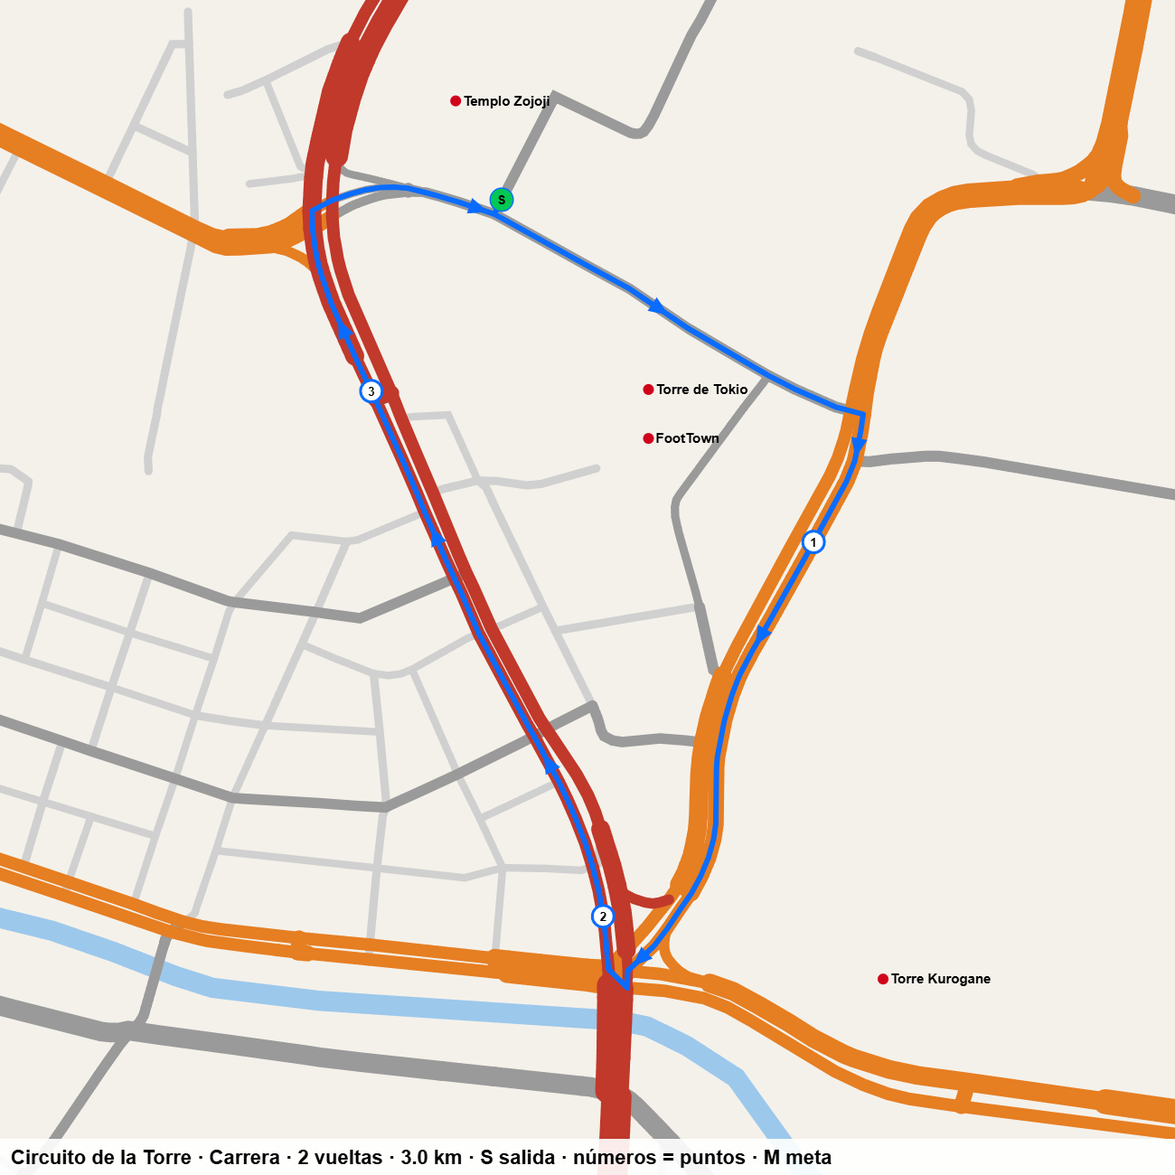
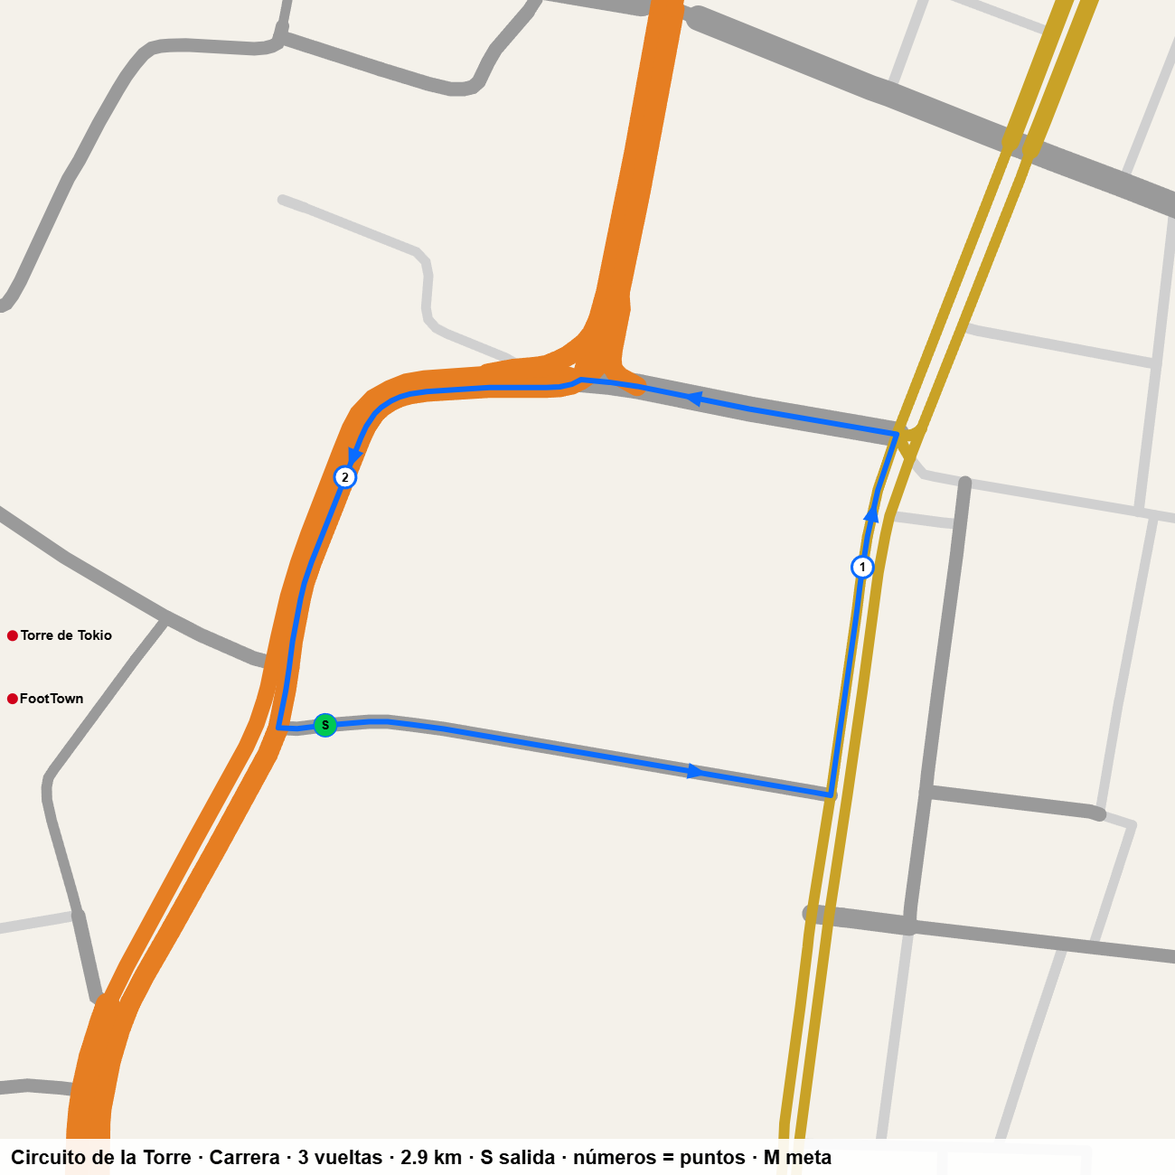
Carreras: Torre rehecha, puntos de control rectos, flechas en todo el recorrido con opcion, fantasma en la salida y flechas LED en los giros

diff --git a/js/race.js b/js/race.js
@@ -4,7 +4,7 @@
 // Recorridos trazados a mano por avenidas: w son puntos de paso seguidos (en coordenadas del plano ×1,5) y entre dos puntos la ruta va por la calle grande que los une.
 // Para cambiar una carrera basta con mover sus puntos (ver los planos en la carpeta planos/)
 const RWP=a=>a.map(([x,z])=>[x*1.5,z*1.5]);
-const RTS=[{id:"torre3",n:"Circuito de la Torre",tipo:"Carrera",laps:2,loop:true,w:RWP([[730,712],[800,765],[893,812],[830,960],[780,1060],[700,880],[652,705]])},
+const RTS=[{id:"torre4",n:"Circuito de la Torre",tipo:"Carrera",laps:3,loop:true,w:RWP([[910,835],[1000,850],[1093,880],[1100,800],[1115,728],[1010,700],[930,712],[893,812]])},
  {id:"canal3",n:"Circuito del Canal",tipo:"Carrera",laps:1,loop:true,w:RWP([[300,975],[600,1050],[780,1065],[1000,1120],[1068,1100],[1100,850],[1115,728],[1010,705],[900,800],[815,1040],[782,1180],[780,1285],[500,1265],[285,1245],[290,1100]])},
  {id:"kuro4",n:"Concesionario → Kurogane",tipo:"Contrarreloj",laps:1,w:RWP([[810,485],[900,545],[1040,575],[1030,640],[1010,700],[930,712],[900,800],[850,930],[815,1040],[880,1095],[935,1115]])},   // (sin giros de más de 110°)
  {id:"beis3",n:"Béisbol → Zona de derrape",tipo:"Contrarreloj",laps:1,w:RWP([[745,555],[652,705],[700,880],[780,1060],[1000,1120],[1068,1100],[1095,880],[1100,840]])},
@@ -32,10 +32,13 @@ function rBuild(R){if(R.pts)return R;const C=rCand(R.w[0][0],R.w[0][1]);let a=nu
  for(let i=1;i<=R.w.length-(R.loop?0:1);i++){const bs=i<R.w.length?rCand(R.w[i][0],R.w[i][1]):new Map([[P[0],0]]),q=rPathC(P[P.length-1],bs,used);if(!q)return null;P=P.concat(q.slice(1))}
  // Sin picos de ir y volver (A→B→A)
  for(let k=0;k<3;k++)for(let i=1;i<P.length-1;i++)if(P[i-1]===P[i+1]){P.splice(i,2);i=Math.max(0,i-2)}
- R.pts=P.map(n=>[n.x,n.z]);const S=[0];for(let i=1;i<R.pts.length;i++)S.push(S[i-1]+Math.hypot(R.pts[i][0]-R.pts[i-1][0],R.pts[i][1]-R.pts[i-1][1]));const D=S[S.length-1],cps=[];
+ // (en los circuitos, también el pico que puede quedar justo en la salida, al cerrar la vuelta)
+ if(R.loop)while(P.length>4&&P[1]===P[P.length-2]){P.shift();P.pop()}
+ R.pts=P.map(n=>[n.x,n.z]);const JN=P.filter(n=>new Set(n.e.map(e=>e[0])).size>=3);const S=[0];for(let i=1;i<R.pts.length;i++)S.push(S[i-1]+Math.hypot(R.pts[i][0]-R.pts[i-1][0],R.pts[i][1]-R.pts[i-1][1]));const D=S[S.length-1],cps=[];
  const at=s=>{s=Math.max(0,Math.min(D,s));let i=1;while(i<S.length-1&&S[i]<s)i++;const f=(s-S[i-1])/((S[i]-S[i-1])||1),[a,b]=R.pts[i-1],[c,d]=R.pts[i];return{x:a+(c-a)*f,z:b+(d-b)*f,i}};
  // Los puntos de control van en un tramo recto (se busca hasta 80 m antes o después) y orientados con la calle, para que los banderines queden de frente
- for(let s=CPD;D-s>=150;s+=CPD){let u=null;for(const o of[0,20,-20,40,-40,60,-60,80,-80]){const a=at(s+o-22),b=at(s+o),c=at(s+o+22);if(Math.abs(ad(Math.atan2(b.x-a.x,b.z-a.z),Math.atan2(c.x-b.x,c.z-b.z)))<.2){u=[a,b,c];break}}if(!u)u=[at(s-22),at(s),at(s+22)];const[a,b,c]=u,l=Math.hypot(c.x-a.x,c.z-a.z)||1;cps.push({x:b.x,z:b.z,dx:(c.x-a.x)/l,dz:(c.z-a.z)/l,i:b.i})}
+ const ok=(s,lim,jd)=>{const a=at(s-lim),b=at(s),c=at(s+lim);return Math.abs(ad(Math.atan2(b.x-a.x,b.z-a.z),Math.atan2(c.x-b.x,c.z-b.z)))<.12&&!JN.some(n=>Math.hypot(n.x-b.x,n.z-b.z)<jd)?[a,b,c]:null};
+ for(let s=CPD;D-s>=150;s+=CPD){let u=null;for(const[lim,jd]of[[40,30],[30,22],[22,14]]){for(let o=0;o<=160&&!u;o+=10)u=ok(s+o,lim,jd)||(o?ok(s-o,lim,jd):null);if(u)break}if(!u)u=[at(s-22),at(s),at(s+22)];const[a,b,c]=u,l=Math.hypot(c.x-a.x,c.z-a.z)||1;cps.push({x:b.x,z:b.z,dx:(c.x-a.x)/l,dz:(c.z-a.z)/l,i:b.i})}
  R.len=D;{const a=at(D-30),b=at(D),l=Math.hypot(b.x-a.x,b.z-a.z)||1;cps.push({x:b.x,z:b.z,dx:(b.x-a.x)/l,dz:(b.z-a.z)/l,end:true,i:R.pts.length-1})}R.cps=cps;R.S=S;R.at=at;R.hw=R.pts.map((p,i)=>{if(!i)return 6.5;const q=R.pts[i-1];return rHW((p[0]+q[0])/2,(p[1]+q[1])/2)+2.5});return R}
 // --- Banderines de los puntos de control: dos a cada lado de la calle, altos y luminosos, se ven desde lejos. El siguiente punto va resaltado y con un haz de luz; la meta, a cuadros ---
 let GTS=[],GTM=null;
@@ -47,13 +50,15 @@ function gateMats(){if(GTM)return GTM;const b=(c,o)=>new THREE.MeshBasicMaterial
  const tx=canvasTex(128,352,g=>{g.fillStyle="#fff";g.fillRect(0,0,128,352);g.fillStyle="#17181f";g.fillRect(0,26,128,134);g.fillStyle="#fff";g.font="bold 54px sans-serif";g.textAlign="center";g.fillText("東",62,84);g.fillText("京",62,144);g.fillStyle="#17181f";for(const y of[182,216,250]){g.beginPath();g.moveTo(26,y);g.lineTo(64,y+24);g.lineTo(102,y);g.lineTo(102,y+14);g.lineTo(64,y+38);g.lineTo(26,y+14);g.closePath();g.fill()}for(let y=306;y<352;y+=16)g.fillRect(0,y,128,8)});
  GTM={fgR:mk(1),fgL:mk(-1),tg:new THREE.ConeGeometry(.24,.6,3).rotateX(PI),ts:new THREE.SphereGeometry(.22,10,8),tb:new THREE.CylinderGeometry(.5,.7,.2,10),next:b(0xffb000,1),far:b(0xff5a2a,.45),fin:new THREE.MeshBasicMaterial({map:chk,side:THREE.DoubleSide,fog:false}),beam,pg:new THREE.CylinderGeometry(.08,.11,7.6,6).translate(0,3.8,0),hl:new THREE.MeshBasicMaterial({color:0xffb000,transparent:true,opacity:.5,fog:false,depthWrite:false,blending:THREE.AdditiveBlending,side:THREE.DoubleSide})};GTM.next.side=GTM.far.side=THREE.DoubleSide;GTM.tn=GTM.next.clone();GTM.tf=GTM.far.clone();GTM.tn.map=GTM.tf.map=tx;return GTM}
 const rHW=(x,z)=>{let m=4;for(const k of gq(x,z).r){const o=k*6;if(segD2(x,z,RSG[o],RSG[o+1],RSG[o+2],RSG[o+3])<(RSG[o+4]+2)**2)m=Math.max(m,RSG[o+4])}return m};
-function gatesClear(){for(const q of GTS)sc.remove(q.G);GTS=[];if(GTM)GTM.beam.visible=false;if(RA)RA.visible=false}
-function gatesBuild(R){gatesClear();const M=gateMats();R.cps.forEach((c,i)=>{const hw=rHW(c.x,c.z)+1.2,G=new THREE.Group(),P=[],F=[],H=[],C=[],add=(g,x,y,z)=>{const m=new THREE.Mesh(g,M.far);m.position.set(x,y,z);G.add(m);P.push(m)};
+function gatesClear(){for(const q of GTS)sc.remove(q.G);GTS=[];for(const g of LEDS)sc.remove(g);LEDS=[];if(GTM)GTM.beam.visible=false;if(RA)RA.visible=false}
+// Dirección de la calle real en un punto (el tramo de calle más cercano), para que los banderines queden siempre de frente
+function rRoad(x,z){let b=null,bd=1e18;for(const k of gq(x,z).r){const o=k*6,d=segD2(x,z,RSG[o],RSG[o+1],RSG[o+2],RSG[o+3]);if(d<bd){bd=d;b=o}}if(b===null)return null;const dx=RSG[b+2]-RSG[b],dz=RSG[b+3]-RSG[b+1],l=Math.hypot(dx,dz)||1;return{dx:dx/l,dz:dz/l}}
+function gatesBuild(R){gatesClear();const M=gateMats();ledBuild(R);R.cps.forEach((c,i)=>{const rr=rRoad(c.x,c.z);if(rr){const s=rr.dx*c.dx+rr.dz*c.dz<0?-1:1;c.dx=rr.dx*s;c.dz=rr.dz*s}const hw=rHW(c.x,c.z)+1.2,G=new THREE.Group(),P=[],F=[],H=[],C=[],add=(g,x,y,z)=>{const m=new THREE.Mesh(g,M.far);m.position.set(x,y,z);G.add(m);P.push(m)};
   for(const s of[-1,1]){const fg=s>0?M.fgR:M.fgL;for(const z of[-3,3]){add(M.pg,s*hw,0,z);add(M.ts,s*hw,7.7,z);add(M.tb,s*hw,.1,z);const B=new THREE.Mesh(fg,c.end?M.fin:M.tf);B.position.set(s*hw,1,z);B.userData.a=0;if(!c.end)C.push(B);F.push(B);G.add(B);const A=new THREE.Mesh(fg,M.hl);A.scale.set(1.3,1.12,1);A.position.set(-.3*s,-.38,-.03);B.add(A);H.push(A)}
    for(let t=1;t<=5;t++)add(M.tg,s*hw,7.45-Math.sin(PI*t/6)*.7,t-3)}   // (guirnalda de banderitas entre los dos mástiles)
   G.position.set(c.x,0,c.z);G.rotation.y=Math.atan2(c.dx,c.dz);G.visible=false;sc.add(G);c.r=Math.max(hw+4,26);GTS.push({G,P,F,H,C})})}   // (radio amplio: en avenidas con dos calzadas también cuenta si vas por la otra)
 // Los banderines ondean un poco y el resplandor del siguiente punto late
-function gatesWave(){const t=performance.now()/1000;GTM.hl.opacity=.42+Math.sin(t*4)*.16;for(const q of GTS)if(q.G.visible)q.F.forEach((B,i)=>B.rotation.y=B.userData.a+Math.sin(t*2.4+i*1.3)*.2)}
+function gatesWave(){const t=performance.now()/1000;ledTick(t);GTM.hl.opacity=.42+Math.sin(t*4)*.16;for(const q of GTS)if(q.G.visible)q.F.forEach((B,i)=>B.rotation.y=B.userData.a+Math.sin(t*2.4+i*1.3)*.2)}
 function rPlace(){const R=RACE.rt,n=R.cps.length,k=RACE.cp%n,tot=n*R.laps;GTS.forEach((q,i)=>{const d=(i-k+n)%n;q.G.visible=d<2&&RACE.cp+d<tot;for(const m of q.P)m.material=d===0?GTM.next:GTM.far;for(const m of q.C)m.material=d===0?GTM.tn:GTM.tf;for(const m of q.H)m.visible=d===0});const c=R.cps[k];GTM.beam.position.set(c.x,0,c.z);GTM.beam.visible=true}
 // ¿Va por la ruta? Se mira el tramo entre el último punto de control y el siguiente (no vale atajar a otra parte del recorrido ni subir a la autopista)
 function rOnRoute(){return!HWL.on&&RF.d<28}
@@ -68,15 +73,37 @@ function rFind(){const R=RACE.rt,N=R.pts.length-1,S=R.S;let bd=1e18;const t=i=>{
 function rBarrier(){if(HWL.on)return;const d=RF.d,lim=RACE.rt.hw[RF.i];if(d<=lim||d>=28)return;const nx=(px-RF.x)/d,nz=(pz-RF.z)/d;px=RF.x+nx*lim;pz=RF.z+nz*lim;const vn=vx*nx+vz*nz;if(vn>0){vx-=vn*nx;vz-=vn*nz;if(vn>3&&performance.now()-crashT>250){crashT=performance.now();thump(vn)}}}
 // Flechas azules pintadas en la calzada, solo antes de cada giro: una fila de 7 que se va torciendo y apartando hacia el lado del giro y acaba antes del cruce
 // (en las rectas no hay). Los giros se buscan al construir la ruta (rTurns)
-const RAN=21;let RA=null;const RAD=new THREE.Object3D();
+const RAS=9,RAN=22;let RA=null;const RAD=new THREE.Object3D();
 function rTurns(R){const D=R.S[R.S.length-1],T=[],hd=(p,q)=>Math.atan2(q.x-p.x,q.z-p.z);let best=null;
  for(let s=8;s<D-8;s+=4){const a=R.at(s-22),b=R.at(s),c=R.at(s+22),d=ad(hd(b,c),hd(a,b));if(Math.abs(d)>.6){if(!best||Math.abs(d)>Math.abs(best.d))best={s,d}}else if(best){T.push(best);best=null}}if(best)T.push(best);R.turns=T}
 function rArrows(){const R=RACE.rt;if(!R.turns)rTurns(R);if(!RA){const s=new THREE.Shape();s.moveTo(0,1.6);s.lineTo(1.35,-1.6);s.lineTo(0,-.6);s.lineTo(-1.35,-1.6);s.closePath();RA=new THREE.InstancedMesh(new THREE.ShapeGeometry(s).rotateX(PI/2),new THREE.MeshBasicMaterial({color:0x2a8cf0,transparent:true,opacity:.92,depthWrite:false,side:THREE.DoubleSide,polygonOffset:true,polygonOffsetFactor:-2,polygonOffsetUnits:-2}),RAN);RA.frustumCulled=false;sc.add(RA)}
- const S=R.S,D=S[S.length-1],n=R.cps.length,q=R.pts[RF.i-1],L=S[RF.i-1]+Math.hypot(RF.x-q[0],RF.z-q[1]),last=!R.loop||(Math.floor(RACE.cp/n)>=R.laps-1&&RACE.cp%n>=2);let c=0;
- for(const t of R.turns){let ds=t.s-L;if(R.loop&&!last&&ds<-30)ds+=D;if(ds<-15||ds>180)continue;const sT=L+ds,ang=Math.max(-1.1,Math.min(1.1,t.d));
-  for(let k=0;k<7&&c<RAN;k++){const s=sT-58+k*8.5;if(s<L+3)continue;const ss=s>=D?s-D:s,a=R.at(ss-4),b=R.at(ss),e=R.at(ss+4),h0=Math.atan2(e.x-a.x,e.z-a.z),f=k/6,off=Math.sign(ang)*1.6*f*f;
-   RAD.position.set(b.x+Math.cos(h0)*off,.06,b.z-Math.sin(h0)*off);RAD.rotation.set(0,h0+ang*.85*f,0);RAD.updateMatrix();RA.setMatrixAt(c++,RAD.matrix)}}
+ if(ENV.rcArr===0){RA.visible=false;return}
+ const S=R.S,D=S[S.length-1],n=R.cps.length,q=R.pts[RF.i-1],L=S[RF.i-1]+Math.hypot(RF.x-q[0],RF.z-q[1]),last=!R.loop||(Math.floor(RACE.cp/n)>=R.laps-1&&RACE.cp%n>=2),s0=(Math.floor(L/RAS)+1)*RAS;let c=0;
+ for(let k=0;k<RAN;k++){let s=s0+k*RAS;if(s>=D){if(last)break;s-=D}let ang=0,f=0,skip=false;for(const t of R.turns){const ds=t.s-s;if(Math.abs(ds)<10){skip=true;break}if(ds>0&&ds<60){ang=Math.max(-1.1,Math.min(1.1,t.d));f=1-ds/60;break}}if(skip)continue;
+  const a=R.at(s-4),b=R.at(s),e=R.at(s+4),h0=Math.atan2(e.x-a.x,e.z-a.z),off=Math.sign(ang)*1.6*f*f;RAD.position.set(b.x+Math.cos(h0)*off,.06,b.z-Math.sin(h0)*off);RAD.rotation.set(0,h0+ang*.85*f,0);RAD.updateMatrix();RA.setMatrixAt(c++,RAD.matrix)}
  RA.count=c;RA.instanceMatrix.needsUpdate=true;RA.visible=c>0}
+// --- Flechas LED de los giros (solo en carrera): A, panel de chevrones ámbar sobre postes donde hay sitio, con la ola de luces que empieza en el lado
+// contrario al giro; C, flecha de neón cian pegada a la pared del edificio que queda de frente cuando no cabe el panel (calles estrechas) ---
+let LEDS=[],LEDT=null;
+function ledTex(){if(LEDT)return LEDT;const mk=(dir)=>{const cv=document.createElement("canvas");cv.width=256;cv.height=80;const t=new THREE.CanvasTexture(cv);t.dir=dir;return t};
+ const neon=(dir)=>canvasTex(256,110,g=>{g.clearRect(0,0,256,110);g.fillStyle="rgba(6,8,12,.85)";g.fillRect(4,4,248,102);g.save();if(dir<0){g.translate(256,0);g.scale(-1,1)}g.strokeStyle="#2ee6ff";g.lineJoin="round";g.shadowColor="#2ee6ff";
+  for(const[w,b]of[[16,18],[6,0]]){g.lineWidth=w;g.shadowBlur=b;g.globalAlpha=w>10?.35:1;g.beginPath();g.moveTo(30,42);g.lineTo(150,42);g.lineTo(150,20);g.lineTo(225,55);g.lineTo(150,90);g.lineTo(150,68);g.lineTo(30,68);g.closePath();g.stroke()}g.restore()});
+ LEDT={a:{"1":mk(1),"-1":mk(-1)},c:{"1":neon(1),"-1":neon(-1)},f:-1};ledDraw(0);return LEDT}
+// Panel A: 3 chevrones de puntos; se enciende uno cada vez, del lado contrario al giro hacia donde apunta
+function ledDraw(fr){for(const dir of[1,-1]){const t=LEDT.a[dir],g=t.image.getContext("2d");g.fillStyle="#0b0b0f";g.fillRect(0,0,256,80);const lit=dir>0?fr:2-fr;
+  for(let k=0;k<3;k++)for(let y=0;y<7;y++)for(let x=0;x<8;x++){const cy=Math.abs(y-3),xx=dir>0?x:7-x,on=xx-cy>=1&&xx-cy<=3;if(!on)continue;const L=k===lit;g.fillStyle=L?"#ffb000":"#3a2608";g.shadowColor="#ffb000";g.shadowBlur=L?8:0;g.beginPath();g.arc(16+k*84+x*8.4,13+y*9,3.4,0,7);g.fill()}t.needsUpdate=true}}
+function ledTick(t){if(!LEDS.length||!LEDT)return;const fr=Math.floor(t*6)%3;if(fr!==LEDT.f){LEDT.f=fr;ledDraw(fr)}for(const m of[LEDT.cm,LEDT.cm2])if(m)m.opacity=.75+Math.sin(t*5)*.25}
+function ledBuild(R){if(!R.turns)rTurns(R);const T2=ledTex(),post=new THREE.MeshLambertMaterial({color:0x2a2c30}),pg=new THREE.CylinderGeometry(.08,.1,3.2,6).translate(0,1.6,0),bk=new THREE.MeshLambertMaterial({color:0x111216});
+ if(!T2.cm)T2.cm=new THREE.MeshBasicMaterial({map:T2.c["1"],transparent:true,depthWrite:false});
+ for(const t of R.turns){if(Math.abs(t.d)<.75)continue;const a=R.at(t.s-30),b=R.at(t.s),h=Math.atan2(b.x-a.x,b.z-a.z),fx=Math.sin(h),fz=Math.cos(h),hw=rHW(b.x,b.z),dir=t.d>0?-1:1;
+  // Sitio para el panel A: en la esquina de fuera del giro, pasado el cruce, fuera de la calzada y sin edificio encima
+  const ox=t.d>0?-Math.cos(h):Math.cos(h),oz=t.d>0?Math.sin(h):-Math.sin(h),G=new THREE.Group(),free=(x,z)=>roadAt(x,z)<0&&!inBuilding(x,z)&&!inBuilding(x+fz*2.7,z-fx*2.7)&&!inBuilding(x-fz*2.7,z+fx*2.7);let A=null;
+  for(const fw of[hw+3,hw+6,hw+10,hw+14])for(const sd of[0,hw*.5+2,hw+3]){const x=b.x+fx*fw+ox*sd,z=b.z+fz*fw+oz*sd;if(!A&&free(x,z))A=[x,z]}
+  let W=null;if(!A)for(const sd of[0,hw*.6,-hw*.6]){for(let d=hw+1;d<=45;d+=1){const x=b.x+fx*d+ox*sd,z=b.z+fz*d+oz*sd;if(inBuilding(x,z)){if(!W||d<W[2])W=[x-fx*.4,z-fz*.4,d];break}}}
+  if(A){for(const s of[-2,2]){const p=new THREE.Mesh(pg,post);p.position.set(s,0,0);G.add(p)}const back=new THREE.Mesh(new THREE.BoxGeometry(5.2,1.8,.14),bk);back.position.set(0,3.6,-.09);G.add(back);
+   const pn=new THREE.Mesh(new THREE.PlaneGeometry(5,1.56),new THREE.MeshBasicMaterial({map:T2.a[dir]}));pn.position.set(0,3.6,0);G.add(pn);G.position.set(A[0],0,A[1])}
+  else if(W){const m=dir>0?T2.cm:(T2.cm2||(T2.cm2=T2.cm.clone()));m.map=T2.c[dir];const pn=new THREE.Mesh(new THREE.PlaneGeometry(4.2,1.8),m);pn.position.set(0,5,0);G.add(pn);G.position.set(W[0],0,W[1])}
+  else continue;G.rotation.y=h+PI;sc.add(G);LEDS.push(G)}}
 // Fuera de la ruta o tras saltarse un arco: al acabarse los 5 s, vuelve al último punto por el que pasó (el tiempo sigue corriendo)
 function rBack(){const R=RACE.rt,n=R.cps.length,k=RACE.cp%n,q=R.cps[k];let x=RACE.sx,z=RACE.sz,hd=RACE.sh;if(RACE.cp>0){const o=R.cps[(RACE.cp-1)%n];x=o.x;z=o.z;hd=Math.atan2(o.dx,o.dz)}RACE.pi=RACE.cp>0?R.cps[(RACE.cp-1)%n].i:0;spawnAt({x,z,h:hd});RACE.off=null;RACE.safe=1.5}
 function raceQuit(){raceAbort();if(state==="set")closeSettings();rQuitMp()}
@@ -92,12 +119,13 @@ function ghostToggle(){RACE.gOn=!RACE.gOn;if(GHC&&!RACE.gOn)GHC.visible=false;if
 function rHud(){const R=RACE.rt,n=R.cps.length,tot=n*R.laps,lap=Math.min(R.laps,Math.floor(RACE.cp/n)+1);$("rcCp").textContent=`${T("Punto")} ${Math.min(RACE.cp,tot)}/${tot}`+(R.laps>1?` · ${T("Vuelta")} ${lap}/${R.laps}`:"");$("rcGh").textContent=RACE.ghost?(RACE.gOn?"👻 ✓":"👻 ✕"):""}
 // Pantalla antes de salir: tráfico de la carrera y fantasma. Recuerda lo último elegido y se puede desactivar (ENV.rcSkip); el tráfico vuelve al de antes al acabar
 if(ENV.rcT===undefined)ENV.rcT=2;
-function raceSetup(R,gi){if(ENV.rcSkip){raceStart(R,gi);return}const P=$("raceP"),runs=(rStore()[R.id]||{runs:[]}).runs;P.innerHTML="";const h1=document.createElement("h1");h1.textContent=T(R.n);P.appendChild(h1);
+function raceSetup(R,gi){const P=$("raceP"),runs=(rStore()[R.id]||{runs:[]}).runs;P.innerHTML="";const h1=document.createElement("h1");h1.textContent=T(R.n);P.appendChild(h1);
  const r=document.createElement("div");r.className="opt";r.innerHTML=`<span>${T("Tráfico")}</span>`;NLAB.forEach((t,i)=>{const b=document.createElement("button");b.textContent=T(t);b.className=ENV.rcT===i?"on":"";b.onclick=()=>{ENV.rcT=i;saveEnv();for(const x of r.querySelectorAll("button"))x.className="";b.className="on"};r.appendChild(b)});P.appendChild(r);
  // Estación del año solo para la carrera (al acabar vuelve la de antes)
  {if(ENV.rcS===undefined)ENV.rcS="keep";const s=document.createElement("div");s.className="opt";s.style.marginTop="10px";s.innerHTML=`<span>${T("Estación")}</span>`;[["keep","La de ahora"],[0,"Primavera"],[1,"Verano"],[2,"Otoño"],[3,"Invierno"]].forEach(([v,t])=>{const b=document.createElement("button");b.textContent=T(t);b.className=String(ENV.rcS)===String(v)?"on":"";b.onclick=()=>{ENV.rcS=v;saveEnv();for(const x of s.querySelectorAll("button"))x.className="";b.className="on"};s.appendChild(b)});P.appendChild(s)}
  const q=document.createElement("div");q.className="opt";q.style.marginTop="10px";q.innerHTML=`<span>${T("Fantasma")}</span>`;const sel=rGhostSel(runs);sel.value=gi;q.appendChild(sel);P.appendChild(q);
- const lb=document.createElement("label");lb.className="rcChk";lb.innerHTML=`<input type="checkbox"> ${T("No volver a mostrar esta pantalla")}`;const ck=lb.firstChild;ck.onchange=()=>{ENV.rcSkip=ck.checked;saveEnv()};P.appendChild(lb);
+ // Flechas azules en la calzada: sí o no
+ {if(ENV.rcArr===undefined)ENV.rcArr=1;const s=document.createElement("div");s.className="opt";s.style.marginTop="10px";s.innerHTML=`<span>${T("Flechas")}</span>`;[[1,"Sí"],[0,"No"]].forEach(([v,tx])=>{const b=document.createElement("button");b.textContent=T(tx);b.className=ENV.rcArr===v?"on":"";b.onclick=()=>{ENV.rcArr=v;saveEnv();for(const x of s.querySelectorAll("button"))x.className="";b.className="on"};s.appendChild(b)});P.appendChild(s)}
  const w=document.createElement("div"),s=document.createElement("button");s.className="b";s.textContent=T("Empezar");s.onclick=()=>raceStart(R,+sel.value);const c=document.createElement("button");c.className="b g";c.textContent=T("Volver");c.onclick=raceMenu;w.append(s,c);P.appendChild(w)}
 function rGhostSel(runs){const sel=document.createElement("select");sel.title=T("Coche fantasma");const o0=document.createElement("option");o0.value=-1;o0.textContent="👻 "+T("Sin fantasma");sel.appendChild(o0);runs.forEach((r,i)=>{const o=document.createElement("option");o.value=i;o.textContent=`👻 ${fmtT(r.t)} · ${r.c}`;sel.appendChild(o)});sel.value=runs.length?0:-1;return sel}
 function raceStart(R,gi,slot){if(!rBuild(R))return;if(RACE.prevT===undefined||RACE.prevT===null)RACE.prevT=npcLvl;setNpc(ENV.rcT);if(ENV.rcS!==undefined&&ENV.rcS!=="keep"&&(RACE.prevS===undefined||RACE.prevS===null)){RACE.prevS=ENV.season===undefined?"auto":ENV.season;ENV.season=+ENV.rcS;seasonApply(+ENV.rcS)}if(state==="race")$("raceP").hidden=true;let a,b,hd;
@@ -142,11 +170,10 @@ function raceMenu(){state="race";$("ov").hidden=false;$("carsP").hidden=$("mapP"
  const mp=ONL.ch&&ONL.ok&&ONL.host;if(mp){const p=document.createElement("p");p.textContent=T("Sala: al pulsar Correr salís todos a la vez.");P.appendChild(p)}
  // Cada carrera es un banner con la vista aérea de su recorrido (se dibuja la primera vez que se abre el menú)
  for(const R of RTS){rBuild(R);const e=S[R.id],runs=e&&e.runs||[],d=document.createElement("div");d.className="rcB";if(R.img)d.style.backgroundImage=`url(${R.img})`;else setTimeout(()=>{raceShot(R);if(R.img)d.style.backgroundImage=`url(${R.img})`},60);
-  const inf=document.createElement("div");inf.className="inf";inf.innerHTML=`<span class="tag${R.loop?"":" c"}">${T(R.tipo)}</span><b>${T(R.n)}</b><small>${R.loop&&R.laps>1?`${R.laps} ${T("vueltas")} · `:""}${(R.len*R.laps/1000).toFixed(1)} km · ${T("Récord")}: ${runs.length?fmtT(runs[0].t):"—"}</small>`;d.appendChild(inf);
-  const sel=rGhostSel(runs);if(mp)sel.hidden=true;d.appendChild(sel);
-  const b=document.createElement("button");b.className="b";b.textContent=T("Correr");b.onclick=()=>mp?onlRaceStart(R):raceSetup(R,+sel.value);d.appendChild(b);P.appendChild(d)}
+  const inf=document.createElement("div");inf.className="inf";inf.innerHTML=`<span class="tag${R.loop?"":" c"}">${T(R.tipo)}</span><b>${T(R.n)}</b><small>${R.loop&&R.laps>1?`${R.laps} ${T("vueltas")} · `:""}${(R.len*R.laps/1000).toFixed(1)} km · </small>`;d.appendChild(inf);
+  const bt=document.createElement("div");bt.className="best";bt.innerHTML=`<small>${T("Mejor tiempo")}</small><b>${runs.length?fmtT(runs[0].t):"—"}</b>`;d.appendChild(bt);
+  const b=document.createElement("button");b.className="b";b.textContent=T("Correr");b.onclick=()=>mp?onlRaceStart(R):raceSetup(R,runs.length?0:-1);d.appendChild(b);P.appendChild(d)}
  const n=document.createElement("p");n.textContent=T("G enciende o apaga el fantasma durante la carrera.");P.appendChild(n);
- const lb=document.createElement("label");lb.className="rcChk";lb.innerHTML=`<input type="checkbox"> ${T("Mostrar la pantalla de tráfico antes de salir")}`;const ck=lb.firstChild;ck.checked=!ENV.rcSkip;ck.onchange=()=>{ENV.rcSkip=!ck.checked;saveEnv()};P.appendChild(lb);
  const row=document.createElement("div");if(RACE.on){const a=document.createElement("button");a.className="b g";a.textContent=T("Abandonar carrera");a.onclick=()=>{raceAbort();resume();rQuitMp()};row.appendChild(a)}const c=document.createElement("button");c.className="b g";c.textContent=T("Cerrar");c.onclick=resume;row.appendChild(c);P.appendChild(row)}
 function raceResults(R,t,old){state="race";$("ov").hidden=false;$("carsP").hidden=$("mapP").hidden=$("setP").hidden=$("livP").hidden=$("onlP").hidden=$("garP").hidden=true;hudVis(false);$("touch").hidden=true;const P=$("raceP");P.hidden=false;P.innerHTML="";const rec=old===null||t<old;
  const h1=document.createElement("h1");h1.textContent=rec?T("¡Nuevo récord!"):T("Meta");P.appendChild(h1);const p=document.createElement("p");p.innerHTML=`<b style="font-size:30px">${fmtT(t)}</b><br>${old===null?"":`${T("Récord anterior")}: ${fmtT(old)}`}`;P.appendChild(p);

diff --git a/js/i18n.js b/js/i18n.js
@@ -110,6 +110,7 @@ ca:{"WASD / flechas · Espacio: freno de mano · V: cámara · M: mapa · C: coc
 [["Selecciona coche","Select car","車を選ぶ","Tria el cotxe"]].forEach(([s,en,ja,ca])=>{I18N.en[s]=en;I18N.ja[s]=ja;I18N.ca[s]=ca});
 [["La de ahora","Current one","今の季節","L'actual"]].forEach(([s,en,ja,ca])=>{I18N.en[s]=en;I18N.ja[s]=ja;I18N.ca[s]=ca});
 [["Reiniciar carrera","Restart race","レースをやり直す","Reinicia la cursa"]].forEach(([s,en,ja,ca])=>{I18N.en[s]=en;I18N.ja[s]=ja;I18N.ca[s]=ca});
+[["Flechas","Arrows","矢印","Fletxes"],["Mejor tiempo","Best time","ベストタイム","Millor temps"]].forEach(([s,en,ja,ca])=>{I18N.en[s]=en;I18N.ja[s]=ja;I18N.ca[s]=ca});
 const T=s=>(LANG!=="es"&&I18N[LANG]&&I18N[LANG][s])||s;
 // Textos fijos de la página (data-i18n guarda el original en español)
 function applyI18n(){document.documentElement.lang=LANG;for(const e of document.querySelectorAll("[data-i18n]"))e.textContent=T(e.dataset.i18n);const hp=document.getElementById("help");if(hp)hp.textContent+=" · "+T("B: carreras · F: modo foto · G: fantasma")}

diff --git a/css/style.css b/css/style.css
@@ -178,3 +178,4 @@ body.rcUI #radP{display:none!important}#lds.menu~#radP{display:none!important}
 #ldsM #ldsRc{box-shadow:inset 0 0 0 3px #ffb000}
 #ldsM #ldsRc span{color:#ffb000}
 .rcBtns{display:flex;gap:6px}#rcR{margin-top:4px;padding:3px 10px;border:0;border-radius:10px;background:rgba(255,255,255,.2);color:#fff;font:600 12px system-ui;cursor:pointer;pointer-events:auto}
+.rcB .best{text-align:right;margin-right:6px}.rcB .best small{display:block;color:#c9ccd6;font-size:11px;letter-spacing:.1em;text-transform:uppercase}.rcB .best b{margin:0;font:800 24px ui-monospace,Consolas,monospace;color:#ffb000;text-shadow:0 0 10px rgba(255,176,0,.6)}

diff --git a/NOTAS.md b/NOTAS.md
@@ -210,3 +210,9 @@ Pedido por el usuario (todo con permiso ya dado; descargas permitidas: partes de
 - Avisar si una tarea merece más esfuerzo (recomendado "alto"; plan Pro).
 - Al probar, cerrar la pestaña del navegador integrado y parar el servidor; no abrir jugar.bat sin avisar.
 - Lo que no pueda probar yo, lo prueba él y manda lista de errores.
+
+## Hecho el 2026-11-08 (carreras: flechas, banderines y LED)
+- Circuito de la Torre rehecho al este de la torre (4 esquinas de unos 90°, 3 vueltas, id torre4). Sin el pico de ida y vuelta en la salida de los circuitos (rBuild).
+- Puntos de control solo en tramo recto (40 m antes y después) y a más de 30 m de un cruce; banderines orientados con la calle real (rRoad).
+- Flechas azules por todo el recorrido, torcidas antes de cada giro; opción Flechas sí/no (ENV.rcArr). La pantalla de salida (Tráfico, Estación, Fantasma, Flechas) sale siempre; en los banners, Mejor tiempo en vez del fantasma.
+- Flechas LED en los giros, solo en carrera (ledBuild): panel A de chevrones ámbar sobre postes en la esquina de fuera (la ola empieza en el lado contrario al giro) y, si no cabe, flecha C de neón cian en la pared de enfrente. El usuario dirá dónde mover o añadir.
